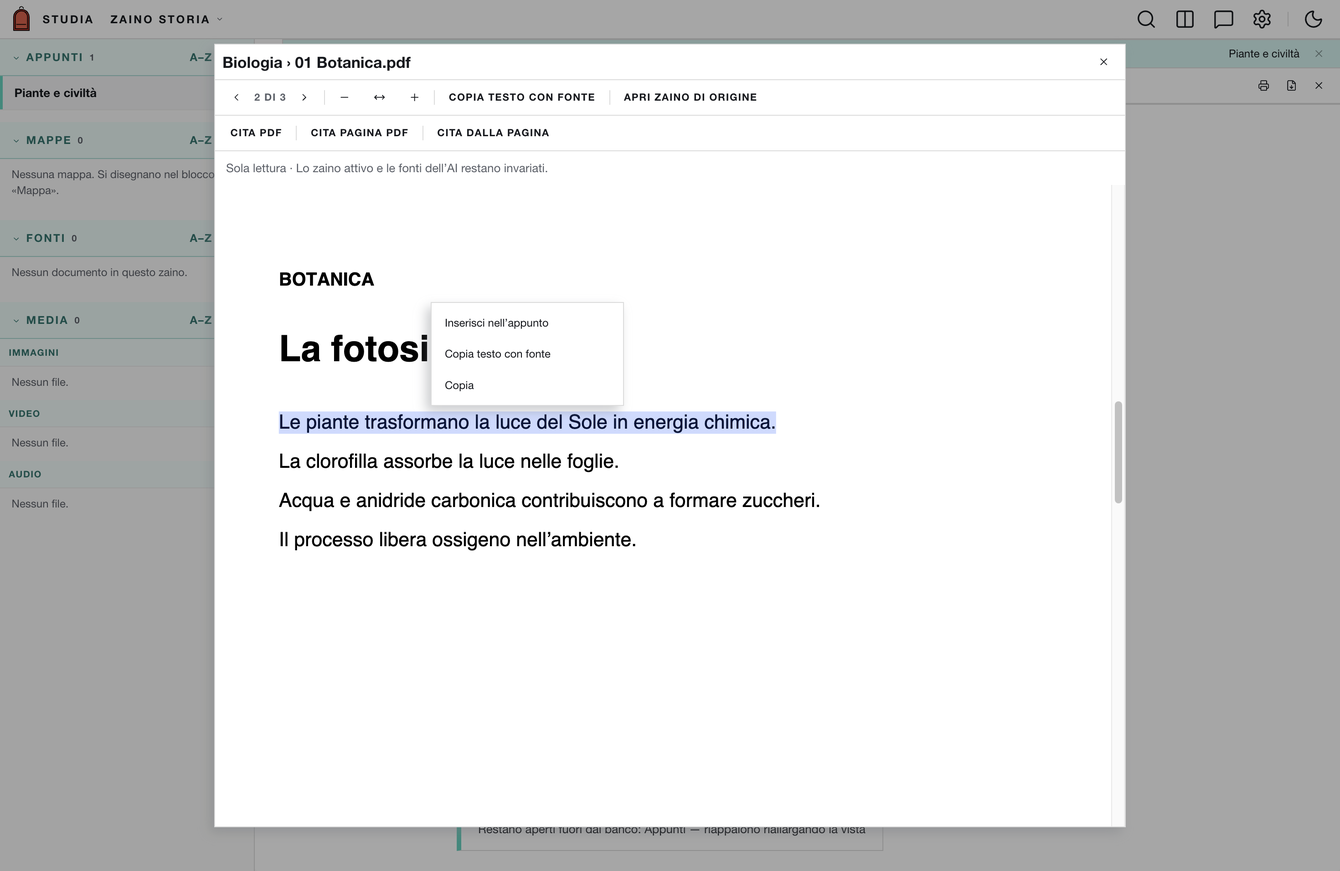
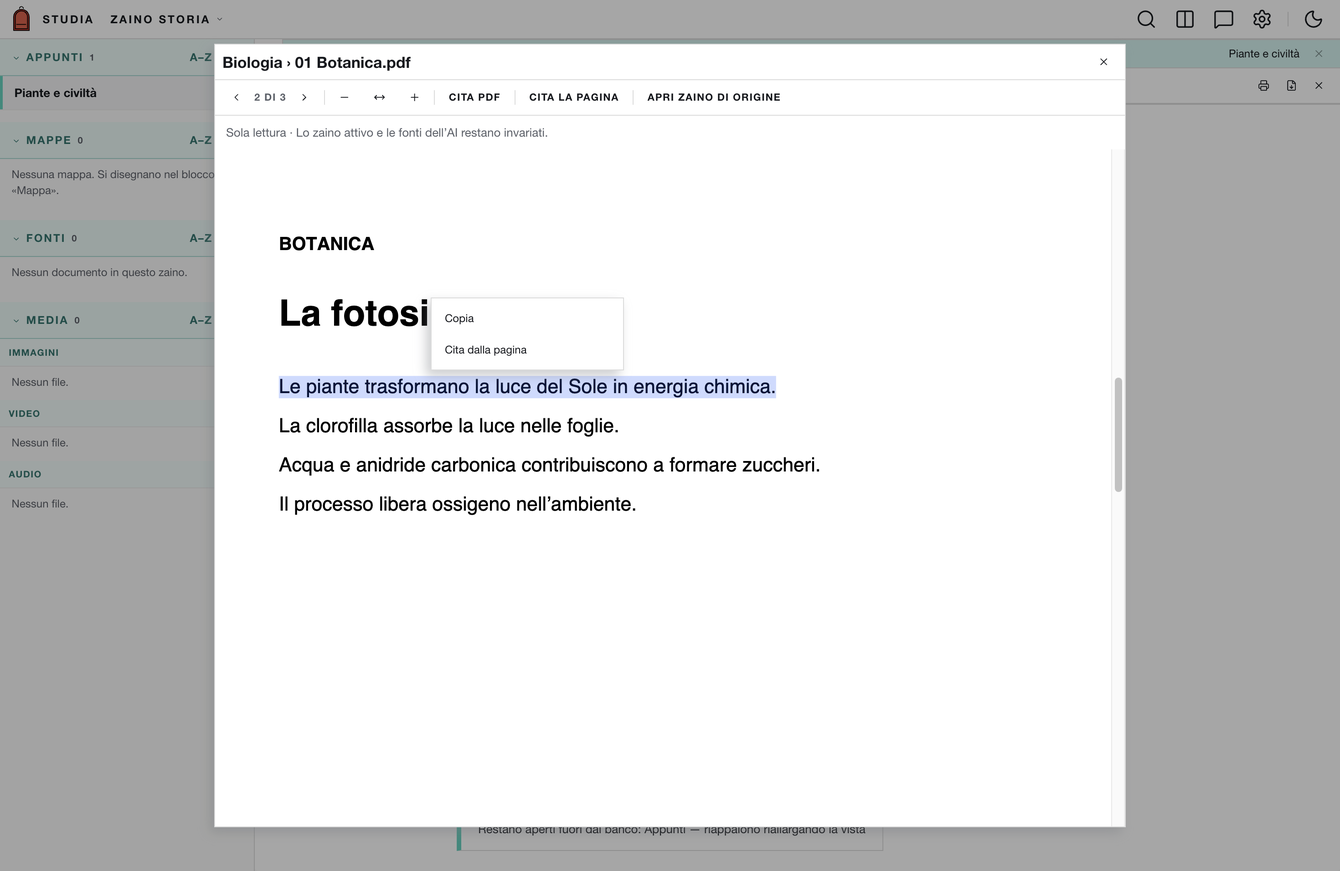
Compatta i comandi dell’anteprima e semplifica i titoli delle citazioni

diff --git a/test/cdp/prova-citazioni-zaini.js b/test/cdp/prova-citazioni-zaini.js
@@ -149,18 +149,18 @@ async function provaCitazioniClip(fileNota){
   await c.invia('Input.dispatchKeyEvent',{type:'keyUp',key:'Enter',code:'Enter',windowsVirtualKeyCode:13});
   await wait(`document.getElementById('citazioneConto').textContent==='${n} DI 3'`);
  };
- await apri();assert(await c.val(`document.getElementById('citazioneCitaEstratto').disabled`),'estratto richiede selezione');
+ await apri();assert(await c.val(`!document.getElementById('citazioneCitaEstratto')`),'estratto solo nel menu della selezione');
  await c.clicca('#citazioneCitaPdf');await wait(`!document.getElementById('citazioneDialog').open`);
  assert.equal((await ultima()).intero,true);assert(await c.val('NOTES.mde.isPreviewActive()'));
  await apri();await pagina(3);await c.clicca('#citazioneCitaPagina');await wait(`!document.getElementById('citazioneDialog').open`);
  assert.equal((await ultima()).pagina,3);assert(!(await ultima()).intero);
  await apri();await pagina(2);await wait(`!!document.querySelector('#citazionePagine .page[data-page-number="2"] .textLayer span')`);
- await c.val(`(()=>{const n=document.querySelector('#citazionePagine .page[data-page-number="2"] .textLayer span').firstChild,r=document.createRange(),i=n.textContent.indexOf('pagina');r.setStart(n,i);r.setEnd(n,i+6);getSelection().removeAllRanges();getSelection().addRange(r);})()`);
- await wait(`!document.getElementById('citazioneCitaEstratto').disabled`);await c.clicca('#citazioneCitaEstratto');await wait(`!document.getElementById('citazioneDialog').open`);
+ await c.val(`(()=>{const n=document.querySelector('#citazionePagine .page[data-page-number="2"] .textLayer span').firstChild,r=document.createRange(),i=n.textContent.indexOf('pagina');r.setStart(n,i);r.setEnd(n,i+6);getSelection().removeAllRanges();getSelection().addRange(r);const b=r.getBoundingClientRect();n.parentElement.dispatchEvent(new MouseEvent('mouseup',{bubbles:true,button:0,clientX:b.x+4,clientY:b.y+4}));})()`);
+ await wait(`selBarraAperta()`);await c.clicca('#selBarra [data-az="inserisci-citazione"]');await wait(`!document.getElementById('citazioneDialog').open`);
  const ref=await ultima();assert.equal(ref.pagina,2);assert.equal(ref.selezione.testo,'pagina');
  assert((await c.val('NOTES.mde.value()')).includes('> *pagina*'));
  await c.val(`noteAnteprimaRidisegna(NOTES)`);
- assert(await c.val(`(()=>{const a=[...document.querySelectorAll('#noteHost .editor-preview-active a[data-citazione-zaino]')].at(-1),q=a.closest('blockquote');return !!q?.querySelector('em')&&q.textContent.includes('01 Botanica.pdf; p. 2')&&getComputedStyle(q).borderLeftWidth!=='0px';})()`),'testo corsivo, titolo e link dentro un’unica barra');
+ assert(await c.val(`(()=>{const a=[...document.querySelectorAll('#noteHost .editor-preview-active a[data-citazione-zaino]')].at(-1),q=a.closest('blockquote');return !!q?.querySelector('em')&&q.textContent.includes('Botanica.pdf; p. 2')&&!q.textContent.includes('01 Botanica.pdf; p. 2')&&getComputedStyle(q).borderLeftWidth!=='0px';})()`),'testo corsivo, titolo senza numero e link dentro un’unica barra');
  await c.val(`(()=>{const a=[...document.querySelectorAll('#noteHost .editor-preview-active a[data-citazione-zaino]')].at(-1);a.dataset.provaCitazione='1';a.scrollIntoView({block:'center',behavior:'instant'});})()`);
  // Un link inline può avere più rettangoli: il centro del loro inviluppo
  // può cadere fra due righe. Si preme una porzione di testo davvero raggiungibile.
@@ -235,15 +235,19 @@ async function provaCitazioniClip(fileNota){
   await wait(`!!document.querySelector('#citazionePagine .page[data-page-number="2"] canvas')`);
   await wait(`!!document.querySelector('#citazionePagine .page[data-page-number="2"] .textLayer span')`);
   assert((await c.val(`document.getElementById('citazioneTitolo').textContent`)).includes('Biologia'));
+  assert.equal(await c.val(`document.getElementById('citazioneCopia')`),null,'niente copia con fonte nella toolbar dell’anteprima');
+  assert(await c.val(`document.getElementById('citazioneCitaPagina').parentElement===document.getElementById('citazioneConto').closest('.tbar')`),'citazioni nella stessa toolbar di pagine e zoom');
+  assert.equal(await c.val(`document.getElementById('citazioneCitaPagina').textContent`),'Cita la pagina');
+  assert.equal(await c.val(`document.getElementById('citazioneCitaEstratto')`),null,'il passaggio si cita dal menu della selezione');
+  assert.equal(await c.val(`document.querySelectorAll('#citazioneDialog > .tbar').length`),2,'testata e una sola toolbar');
   assert(await c.val(`!!document.querySelector('#citazionePagine .page[data-page-number="2"] canvas').getBoundingClientRect().height`));
   await provaGestiCitazione(cita.rimando);
   // Opt-in: copia del sistema e gesto Incolla reali, senza il doppio usato dalle altre prove.
   // Il lanciatore locale conserva e ripristina la pasteboard del Mac in memoria.
   if(process.env.STUDIA_PROVA_CLIPBOARD==='1'){
    await c.val(`navigator.clipboard.writeText=window.__copiaPrima;NOTES.mde.codemirror.setCursor(NOTES.mde.codemirror.lineCount(),0);if(!NOTES.mde.isPreviewActive())NOTES.mde.togglePreview();`);
-   await c.val(`(()=>{const r=document.createRange();r.selectNodeContents(document.querySelector('#citazionePagine .page[data-page-number="2"] .textLayer span'));getSelection().removeAllRanges();getSelection().addRange(r);})()`);
-   await c.clicca('#citazioneCopia');await c.pausa(200);
-   assert((await c.val(`document.getElementById('citazioneStato').textContent`)).startsWith('Citazione copiata.'),'la copia reale deve riuscire: '+await c.val(`document.getElementById('citazioneStato').textContent`));
+   await c.val(`(()=>{const el=document.querySelector('#citazionePagine .page[data-page-number="2"] .textLayer span'),r=document.createRange();r.selectNodeContents(el);getSelection().removeAllRanges();getSelection().addRange(r);const b=r.getBoundingClientRect();el.dispatchEvent(new MouseEvent('mouseup',{bubbles:true,button:0,clientX:b.x+4,clientY:b.y+4}));})()`);
+   await wait('selBarraAperta()');await c.clicca('#selBarra [data-az="copia"]');await c.pausa(200);
    assert(await c.val('navigator.clipboard.readText().then(()=>false,()=>true)'), 'la lettura automatica della clipboard resta negata');
    await c.clicca('#citazioneChiudi');await c.clicca('#noteHost .editor-toolbar .preview');
    const primaIncolla=await c.val('NOTES.mde.value()');
@@ -251,7 +255,8 @@ async function provaCitazioniClip(fileNota){
    await c.invia('Input.dispatchKeyEvent',{type:'keyDown',modifiers:4,key:'v',code:'KeyV',windowsVirtualKeyCode:86,commands:['paste']});
    await c.invia('Input.dispatchKeyEvent',{type:'keyUp',modifiers:4,key:'v',code:'KeyV',windowsVirtualKeyCode:86});
    await wait(`NOTES.mde.value()!==${q(primaIncolla)}`);
-   assert.equal((await c.val('NOTES.mde.value()')).split('> *Botanica - pagina 2*').length,3,'incolla dopo uscita da anteprima');
+   assert.equal((await c.val('NOTES.mde.value()')).split('Botanica - pagina 2').length,primaIncolla.split('Botanica - pagina 2').length+1,'Copia incolla il solo testo selezionato dopo uscita da anteprima');
+   assert.equal((await c.val('NOTES.mde.value()')).split('zaino-pdf:').length,primaIncolla.split('zaino-pdf:').length,'Copia non aggiunge la fonte');
    await c.val(`navigator.clipboard.writeText=async t=>{window.__citazioneCopiata=t;};citazioneZainoApri(${q(cita.rimando)})`);
    await wait(`!!document.querySelector('#citazionePagine .page[data-page-number="2"] .textLayer span')`);
   }
@@ -261,21 +266,17 @@ async function provaCitazioniClip(fileNota){
   shot=await c.invia('Page.captureScreenshot',{format:'png'});fs.writeFileSync('/tmp/zaino-citazione-menu.png',Buffer.from(shot.result.data,'base64'));
   const livello=await c.val(`(()=>{const b=document.querySelector('#selBarra .ctx-item'),r=b.getBoundingClientRect(),hit=document.elementFromPoint(r.x+r.width/2,r.y+r.height/2);return {raggiungibile:!!hit?.closest('#selBarra'),sopra:hit?.outerHTML.slice(0,180),contenitore:document.getElementById('selBarra').parentElement.id};})()`);
   assert(livello.raggiungibile,'Menu della citazione davanti al PDF e cliccabile: '+JSON.stringify(livello));
-  assert.deepEqual(await c.val(`[...document.querySelectorAll('#selBarra .ctx-item')].map(b=>b.textContent)`),['Inserisci nell’appunto','Copia testo con fonte','Copia']);
+  assert.deepEqual(await c.val(`[...document.querySelectorAll('#selBarra .ctx-item')].map(b=>b.textContent)`),['Copia','Cita dalla pagina']);
   assert.equal(await c.val(`evSupDaRange(SELMENU.range)`),null,'nessuna annotazione sulla fonte sottostante');
-  await c.val(`window.__citazioneCopiata=''`);await c.clicca('#selBarra [data-az="cita-pdf"]');
-  await wait(`window.__citazioneCopiata?.includes('Biologia › 01 Botanica.pdf · p. 2')`);
-  assert(!(await c.val('window.__citazioneCopiata')).includes('Fonte locale'));
   // Anche senza un PDF sottostante, il tasto destro apre il menu dentro il dialogo.
   await c.val(`closePdf();window.__selezionaCitazione()`);await wait(`selBarraAperta()`);
   const punto=await c.val(`(()=>{const r=getSelection().getRangeAt(0).getBoundingClientRect();return {x:r.x+4,y:r.y+4};})()`);
   for(const type of ['mousePressed','mouseReleased'])await c.invia('Input.dispatchMouseEvent',{type,...punto,button:'right',clickCount:1});
   await wait(`selMenuAperto()`);
+  assert.deepEqual(await c.val(`[...document.querySelectorAll('#selMenu .ctx-item')].map(b=>b.textContent)`),['Copia','Cita dalla pagina'],'menu automatico e tasto destro coerenti');
   assert(await c.val(`(()=>{const b=document.querySelector('#selMenu [data-az="copia"]'),r=b.getBoundingClientRect();return !!document.elementFromPoint(r.x+r.width/2,r.y+r.height/2)?.closest('#selMenu');})()`));
   await c.val(`window.__citazioneCopiata=''`);await c.clicca('#selMenu [data-az="copia"]');
   await wait(`window.__citazioneCopiata==='Botanica - pagina 2'`);
-  await c.val(`(()=>{const r=document.createRange();r.selectNodeContents(document.querySelector('#citazionePagine .page[data-page-number="2"] .textLayer span'));getSelection().removeAllRanges();getSelection().addRange(r);window.__citazioneCopiata='';})()`);
-  await c.clicca('#citazioneCopia');await wait(`window.__citazioneCopiata?.includes('> *Botanica - pagina 2*')`);
   shot=await c.invia('Page.captureScreenshot',{format:'png'});fs.writeFileSync('/tmp/zaino-citazione-anteprima.png',Buffer.from(shot.result.data,'base64'));
   // Gesto reale dal secondo appunto in anteprima: destinazione stabile, inserimento
   // senza sostituire il testo selezionato e un solo Annulla per tornare all'originale.

diff --git a/App/StudIA.html b/App/StudIA.html
@@ -76,7 +76,8 @@
      `test/roundtrip.js` caricano lo STESSO file. Non ha dipendenze: sta qui in
      fondo solo per leggibilità. -->
 <!-- ⚠ PRIMA di `lettura/capitolo.js`, che la usa per leggere i rimandi: qui
-     l'ordine dei `<script>` è l'unica dipendenza dichiarata che abbiamo. -->
+     l'ordine dei `<script>` è l'unica dipendenza dichiarata che abbiamo.
+     DOPO `fonti/nomi.js`, che toglie il numeratore dai titoli delle citazioni. -->
 <script src="assets/rimandi/sintassi.js"></script>
 <!-- ⚠ Anche questa PRIMA di `capitolo.js`: è chi decide che nome ha un capitolo,
      e la testata di quel file dice perché i nomi sono più d'uno. -->
@@ -13816,12 +13817,12 @@ function siStaRidimensionando(){
  */
 function selMenuHTML(sel){
   if(sel.soloCitazione){
-    var inserisci='';
+    var copia='<button type="button" class="ctx-item" role="menuitem" data-az="copia">Copia</button>';
     if(sel.anteprimaEsterna){
       var titolo=sel.appunto?'Inserisci testo e fonte in «'+sel.appunto+'»':'Apri un appunto nello zaino attivo per inserire il testo.';
-      inserisci='<button type="button" class="ctx-item" role="menuitem" data-az="inserisci-citazione" title="'+escHtml(titolo)+'"'+(sel.appunto?'':' disabled')+'>Inserisci nell’appunto</button>';
+      return copia+'<button type="button" class="ctx-item" role="menuitem" data-az="inserisci-citazione" title="'+escHtml(titolo)+'"'+(sel.appunto?'':' disabled')+'>Cita dalla pagina</button>';
     }
-    return inserisci+'<button type="button" class="ctx-item" role="menuitem" data-az="cita-pdf">Copia testo con fonte</button><button type="button" class="ctx-item" role="menuitem" data-az="copia">Copia</button>';
+    return '<button type="button" class="ctx-item" role="menuitem" data-az="cita-pdf">Copia testo con fonte</button>'+copia;
   }
   var conVault=!!(notesApi() && curMeta());
   /* Le voci non ancora costruite si dichiarano e si spengono, come fa il
@@ -13931,7 +13932,7 @@ document.addEventListener('contextmenu', function(e){
  */
 function selAzione(az, testo, range){
   if(az==='inserisci-citazione'){citazioneInserisciDaRange(range);return;}
-  if(az==='cita-pdf'){if(window.citazioneSelezione?.(range)){citazioneCopiaDaRange(range);return;}var origine=citazioneOriginePdf(range);if(origine)citazioneCopiaPdf(zainoAttivo(),origine.file,origine.pagina,testo,range);else toast('Seleziona un passaggio di una sola pagina per citarlo.',false);return;}
+  if(az==='cita-pdf'){var origine=citazioneOriginePdf(range);if(origine)citazioneCopiaPdf(zainoAttivo(),origine.file,origine.pagina,testo,range);else toast('Seleziona un passaggio di una sola pagina per citarlo.',false);return;}
   if(az==='interrogami'){var sup=evSupDaRange(range);window.zainoInterrogami?.({text:testo,file:sup && sup.tipo==='pdf'?ANTEPRIMA.file:''});return;}
   if(az==='copia'){
     if(!navigator.clipboard){ toast('Copia non disponibile',false); return; }
@@ -22870,8 +22871,7 @@ window.addEventListener('keydown', function(e){
 <div id="zainiMenu" class="popmenu" role="dialog" aria-label="Scegli uno zaino"></div>
 <dialog id="citazioneDialog" aria-labelledby="citazioneTitolo">
   <div class="tbar"><strong id="citazioneTitolo">Citazione PDF</strong><span class="tbspazio"></span><button type="button" id="citazioneChiudi" class="tbtn" title="Chiudi la fonte" aria-label="Chiudi la fonte"></button></div>
-  <div class="tbar"><span class="pdfpag" id="citazionePag"><button type="button" id="citazionePrima" class="tbtn" title="Pagina precedente" aria-label="Pagina precedente"></button><button type="button" class="tbtn" id="citazioneConto" aria-expanded="false" aria-controls="citazionePaginaIn" title="Vai a una pagina: premi e scrivi il numero">− DI −</button><input id="citazionePaginaIn" type="text" inputmode="numeric" autocomplete="off" aria-label="Vai a una pagina" hidden><button type="button" id="citazioneDopo" class="tbtn" title="Pagina successiva" aria-label="Pagina successiva"></button></span><span class="tbsep"></span><span class="pdfzoom" id="citazioneZoom" role="group" aria-label="Zoom del PDF"><button type="button" class="tbtn" id="citazioneZoomOut" title="Riduci" aria-label="Riduci" disabled></button><button type="button" class="tbtn" id="citazioneZoomLvl" title="Adattata alla larghezza — segue il riquadro; clicca per adattare alla pagina intera" disabled></button><button type="button" class="tbtn" id="citazioneZoomIn" title="Ingrandisci" aria-label="Ingrandisci" disabled></button></span><span class="tbsep"></span><button type="button" id="citazioneCopia" class="tbtn">Copia testo con fonte</button><span class="tbsep"></span><button type="button" id="citazioneVai" class="tbtn">Apri zaino di origine</button></div>
-  <div class="tbar"><button type="button" class="tbtn" id="citazioneCitaPdf" title="Inserisci nell’appunto il riferimento all’intero PDF">Cita PDF</button><span class="tbsep"></span><button type="button" class="tbtn" id="citazioneCitaPagina" title="Inserisci nell’appunto il riferimento alla pagina corrente">Cita pagina PDF</button><span class="tbsep"></span><button type="button" class="tbtn" id="citazioneCitaEstratto" title="Seleziona un passaggio di questa pagina e inseriscilo nell’appunto con il riferimento">Cita dalla pagina</button></div>
+  <div class="tbar"><span class="pdfpag" id="citazionePag"><button type="button" id="citazionePrima" class="tbtn" title="Pagina precedente" aria-label="Pagina precedente"></button><button type="button" class="tbtn" id="citazioneConto" aria-expanded="false" aria-controls="citazionePaginaIn" title="Vai a una pagina: premi e scrivi il numero">− DI −</button><input id="citazionePaginaIn" type="text" inputmode="numeric" autocomplete="off" aria-label="Vai a una pagina" hidden><button type="button" id="citazioneDopo" class="tbtn" title="Pagina successiva" aria-label="Pagina successiva"></button></span><span class="tbsep"></span><span class="pdfzoom" id="citazioneZoom" role="group" aria-label="Zoom del PDF"><button type="button" class="tbtn" id="citazioneZoomOut" title="Riduci" aria-label="Riduci" disabled></button><button type="button" class="tbtn" id="citazioneZoomLvl" title="Adattata alla larghezza — segue il riquadro; clicca per adattare alla pagina intera" disabled></button><button type="button" class="tbtn" id="citazioneZoomIn" title="Ingrandisci" aria-label="Ingrandisci" disabled></button></span><span class="tbsep"></span><button type="button" class="tbtn" id="citazioneCitaPdf" title="Inserisci nell’appunto il riferimento all’intero PDF">Cita PDF</button><span class="tbsep"></span><button type="button" class="tbtn" id="citazioneCitaPagina" title="Inserisci nell’appunto il riferimento alla pagina corrente">Cita la pagina</button><span class="tbsep"></span><button type="button" id="citazioneVai" class="tbtn">Apri zaino di origine</button></div>
   <p id="citazioneStato" role="status"></p>
   <div id="citazionePdf"><div id="citazioneFrame" tabindex="0" autofocus aria-label="PDF citato da un altro zaino" title="Pinch: zoom · Spazio + trascina: sposta · Tre clic: adatta alla larghezza"><div id="citazionePagine" class="pdfViewer"></div></div></div>
 </dialog>

diff --git a/App/assets/rimandi/citazioni-ui.js b/App/assets/rimandi/citazioni-ui.js
@@ -42,7 +42,6 @@
   s.selezioneApplicata=true;
   if(!citazioneSelezionaLayer(layer,s.info.selezione))messaggio('Pagina aperta. Non riesco a individuare esattamente il passaggio citato.');
  }
- function selezioneCorrente(){var sel=getSelection();return sel?.rangeCount&&!sel.isCollapsed&&citazioneSelezione(sel.getRangeAt(0))?sel.getRangeAt(0):null;}
  function markdownCitazione(modo,range){
   if(!stato?.doc)return '';
   var s=stato,ref=RimandiSintassi.leggi(s.info.rimando),pagina=modo==='pdf'?null:s.viewer.currentPageNumber,testo='',ancora;
@@ -125,13 +124,11 @@
   document.getElementById('citazioneConto').textContent=pronto?p+' DI '+s.doc.numPages:'− DI −';
   document.getElementById('citazionePrima').disabled=!pronto||p<=1;
   document.getElementById('citazioneDopo').disabled=!pronto||p>=s.doc.numPages;
-  document.getElementById('citazioneCopia').disabled=!pronto;
   document.getElementById('citazioneVai').disabled=!pronto;
   var conto=document.getElementById('citazioneConto');conto.disabled=!pronto;conto.title=FontiPagina.suggerimento(p,{etichette:s?.etichette});
   var b=s?.destinazione,puoi=pronto&&b?.file&&noteBersaglioValido(b);
   document.getElementById('citazioneCitaPdf').disabled=!puoi;
   document.getElementById('citazioneCitaPagina').disabled=!puoi;
-  document.getElementById('citazioneCitaEstratto').disabled=!puoi||!selezioneCorrente();
   document.querySelectorAll('#citazioneZoom button').forEach(function(b){b.disabled=!pronto;});
   var lvl=document.getElementById('citazioneZoomLvl');
   var e=FontiZoom.comandoPdf(s?.viewer.currentScaleValue,s?.viewer.currentScale,pronto);
@@ -217,27 +214,15 @@
   if(e.key==='Enter'){e.preventDefault();e.stopPropagation();campoVai();}
  });
  document.getElementById('citazionePaginaIn').addEventListener('blur',campoChiudi);
- document.addEventListener('selectionchange',function(){if(stato?.doc&&dialog.open)controlli();});
  window.addEventListener('keydown',function(e){if(e.key!=='Escape'||!dialog.open)return;e.preventDefault();e.stopPropagation();
   if(!document.getElementById('citazionePaginaIn').hidden){campoChiudi();frame.focus({preventScroll:true});}else chiudi();
  },true);
  document.getElementById('citazioneCitaPdf').onclick=function(){var md=markdownCitazione('pdf');if(md)inserisciMarkdown(md);};
  document.getElementById('citazioneCitaPagina').onclick=function(){var md=markdownCitazione('pagina');if(md)inserisciMarkdown(md);};
- document.getElementById('citazioneCitaEstratto').addEventListener('mousedown',function(e){e.preventDefault();});
- document.getElementById('citazioneCitaEstratto').onclick=function(){var md=markdownCitazione('estratto',selezioneCorrente());if(md)inserisciMarkdown(md);};
  document.getElementById('citazionePrima').onclick=function(){if(stato?.doc)stato.viewer.currentPageNumber--;};
  document.getElementById('citazioneDopo').onclick=function(){if(stato?.doc)stato.viewer.currentPageNumber++;};
- document.getElementById('citazioneCopia').addEventListener('mousedown',function(e){e.preventDefault();});
- function markdownDaRange(range){return markdownCitazione(citazioneSelezione(range)?'estratto':'pagina',range);}
- window.citazioneCopiaDaRange=async function(range){
-  var md=markdownDaRange(range);if(!md)return;
-  try{await navigator.clipboard.writeText(md);messaggio('Citazione copiata. Chiudi l’anteprima e incollala nel tuo appunto.');}catch(e){messaggio('Copia non riuscita: '+e.message);}
- };
  window.citazioneInserisciDaRange=function(range){
   if(!citazioneSelezione(range))return;var md=markdownCitazione('estratto',range);if(md)inserisciMarkdown(md);
- };
- document.getElementById('citazioneCopia').onclick=function(){
-  var sel=window.getSelection();citazioneCopiaDaRange(sel?.rangeCount&&!sel.isCollapsed?sel.getRangeAt(0):null);
  };
  document.getElementById('citazioneVai').onclick=apriOrigine;
  window.addEventListener('studia:zaino-changed',function(){if(dialog.open)chiudi();});

diff --git a/test/citazioni-zaini.js b/test/citazioni-zaini.js
@@ -24,9 +24,9 @@ const v=fs.mkdtempSync(path.join(os.tmpdir(),'zaino-citazioni-'));
  assert.deepEqual(R.trovaSelezione('prima DAG dopo DAG',{inizio:15,testo:'DAG'}),{inizio:15,fine:18},'riconosce la seconda occorrenza');
  assert.equal(R.trovaSelezione('DAG e DAG',{inizio:30,testo:'DAG'}),null,'mai scegliere una frase ambigua');
  assert.deepEqual(R.trovaSelezione('prima DAG dopo',{inizio:0,testo:'DAG'}),{inizio:6,fine:9},'ripiego univoco');
- for(const [rimando,testo,titolo] of [[intero,'','01 Fonte.pdf'],[cita.rimando,'','01 Fonte.pdf; p. 3'],[puntuale,'DAG su due\nrighe','01 Fonte.pdf; p. 3']]){
+ for(const [rimando,testo,titolo] of [[intero,'','Fonte.pdf'],[cita.rimando,'','Fonte.pdf; p. 3'],[puntuale,'DAG su due\nrighe','Fonte.pdf; p. 3']]){
   const md=R.citazionePdfZaino({...cita,rimando},testo);
-  assert(md.split('\n').every(l=>l.startsWith('> ')),'un blocco unico include anche il link');assert(md.includes(titolo));
+  assert(md.split('\n').every(l=>l.startsWith('> ')),'un blocco unico include anche il link');assert.equal(md.split('\n').at(-2).trimEnd(),'> '+titolo,'titolo senza numero d’importazione');
   const html=require('../lib/reader-parser').load().mdToHtml(md,true);
   assert(/<blockquote>[\s\S]*data-citazione-zaino=[\s\S]*<\/blockquote>/.test(html),'link dentro la stessa barra');
   if(testo)assert(html.includes('<em>DAG su due</em>'),'estratto in corsivo');
@@ -37,6 +37,11 @@ const v=fs.mkdtempSync(path.join(os.tmpdir(),'zaino-citazioni-'));
  assert.equal(normalizzata.split('\n').length,vecchia.split('\n').length,'coordinate degli appunti conservate');
  assert(normalizzata.split('\n').every(l=>l.startsWith('>')),'barra continua anche sulle citazioni precedenti');
  const codice='```\n'+vecchia+'\n```';assert.equal(R.normalizzaCitazioni(codice),codice,'codice letterale invariato');
+ const precedente='> *Estratto*  \n> 01 Fonte.pdf; p. 3  \n> '+R.link('Origine › 01 Fonte.pdf · p. 3',cita.rimando);
+ const resa=R.normalizzaCitazioni(precedente);assert.equal(resa.split('\n')[1],'> Fonte.pdf; p. 3  ','anche il titolo delle citazioni esistenti perde solo il numero interno');assert.equal(resa.split('\n')[2],precedente.split('\n')[2],'link originale invariato');
+ assert.equal(resa.split('\n').length,precedente.split('\n').length,'righe conservate');assert.equal(R.normalizzaCitazioni(resa),resa,'resa idempotente');
+ assert.equal(R.normalizzaCitazioni('```\n'+precedente+'\n```'),'```\n'+precedente+'\n```','nessuna normalizzazione nel codice');
+ for(const [file,titolo] of [['0001 - 2026 orario.pdf','2026 orario.pdf'],['1984.pdf','1984.pdf'],['12 orario 1C.pdf','orario 1C.pdf']])assert.equal(R.citazionePdfZaino({...cita,file},'').split('\n')[0].trimEnd(),'> '+titolo+'; p. 3');
 
  assert.equal(R.leggi(cita.rimando.replace('#p=3','#p=0')),null);
  assert.equal(R.leggi(cita.rimando.replace(rif.zainoId,'../fuori')),null);

diff --git a/App/guida-zaino/index.html b/App/guida-zaino/index.html
@@ -1359,10 +1359,10 @@
         <ol class="passi">
           <li>Nella toolbar Appunti premi il pulsante clip <strong>Cita un materiale</strong>. Scegli lo <strong>Zaino della fonte</strong> e il PDF: si apre l’anteprima senza inserire nulla.</li>
           <li>Premi il contatore delle pagine, scrivi il numero e premi <strong>Invio</strong>. <strong>Esc</strong> annulla il campo; con il campo chiuso, chiude la finestra.</li>
-          <li><strong>Cita PDF</strong> inserisce il titolo e il link all’intero documento.</li>
-          <li><strong>Cita pagina PDF</strong> inserisce il titolo, il numero della pagina corrente e il link.</li>
-          <li>Per <strong>Cita dalla pagina</strong>, seleziona prima le parole sul PDF. Nell’appunto compariranno in corsivo, seguite dal titolo con la pagina e dal link. La barra grigia comprende tutto il blocco. L’appunto mantiene la modalità anteprima; <strong>⌘Z</strong> annulla l’inserimento.</li>
-          <li>Apri il link nell’anteprima dell’appunto: il PDF appare in sola lettura. Se hai citato un passaggio, le sue parole vengono selezionate; non viene creata un’evidenziatura. Puoi anche usare <strong>Copia testo con fonte</strong>.</li>
+          <li>Nella barra superiore, <strong>Cita PDF</strong> inserisce il titolo e il link all’intero documento.</li>
+          <li><strong>Cita la pagina</strong> inserisce il titolo, il numero della pagina corrente e il link. La riga del titolo non mostra il numero assegnato all’importazione.</li>
+          <li>Seleziona le parole sul PDF e scegli <strong>Cita dalla pagina</strong> nel menu della selezione. <strong>Copia</strong> copia solo il testo. Nell’appunto il passaggio comparirà in corsivo, seguito dal titolo con la pagina e dal link. La barra grigia comprende tutto il blocco. L’appunto mantiene la modalità anteprima; <strong>⌘Z</strong> annulla l’inserimento.</li>
+          <li>Apri il link nell’anteprima dell’appunto: il PDF appare in sola lettura. Se hai citato un passaggio, le sue parole vengono selezionate; non viene creata un’evidenziatura.</li>
           <li>Nella toolbar trovi <strong>Riduci</strong>, <strong>Adatta</strong> e <strong>Ingrandisci</strong>, come in Fonti. Funzionano pinch, <kbd>Spazio</kbd> + trascinamento e <strong>tre clic</strong> per adattare alla larghezza.</li>
           <li><strong>Apri zaino di origine</strong> cambia lo zaino attivo, apre il PDF alla pagina citata e seleziona anche in Fonti le parole del passaggio. Nella topbar, <strong>Torna a [zaino di partenza]</strong> riapre l’appunto da cui provenivi, con la sua modalità di visualizzazione.</li>
         </ol>

diff --git a/App/assets/rimandi/sintassi.js b/App/assets/rimandi/sintassi.js
@@ -36,9 +36,9 @@
    dati alla stringa, e viceversa.
    ============================================================================ */
 (function (root, factory) {
-  if (typeof module === 'object' && module.exports) module.exports = factory();
-  else root.RimandiSintassi = factory();
-}(typeof self !== 'undefined' ? self : this, function () {
+  if (typeof module === 'object' && module.exports) module.exports = factory(require('../fonti/nomi'));
+  else root.RimandiSintassi = factory(root.FontiNomi);
+}(typeof self !== 'undefined' ? self : this, function (FontiNomi) {
   'use strict';
 
   /* Le tre forme, in un posto solo. ⚠ `&amp;` fra i parametri della figura non
@@ -104,7 +104,7 @@
     const label=String(info.zainoTitolo+' › '+titolo+(r.intero?'':' · p. '+r.pagina)).replace(/[\[\]\r\n]/g,'');
     const estratto=String(testo||'').trim(),righe=[];
     if(estratto)estratto.split(/\r?\n/).forEach(l=>righe.push(l?'*'+letterale(l)+'*':''));
-    righe.push(letterale(titolo+pagina),link(letterale(label),info.rimando));
+    righe.push(letterale(FontiNomi.visibile(titolo)+pagina),link(letterale(label),info.rimando));
     return righe.map(l=>'> '+l).join('  \n');
   }
   /** Offset verificato sul testo; se il layout cambia si accetta solo un riscontro univoco. */
@@ -122,8 +122,13 @@
       const f=/^\s*(`{3,}|~{3,})/.exec(righe[i]);
       if(f){if(!recinto)recinto=f[1][0];else if(recinto===f[1][0])recinto='';continue;}
       if(recinto)continue;
-      const m=/^\[([^\]]+)\]\((zaino-pdf:[^)]+)\)\s*$/.exec(righe[i]);
-      if(!m||leggi(m[2])?.tipo!=='pdf-zaino')continue;
+      const m=/^(>\s*)?\[([^\]]+)\]\((zaino-pdf:[^)]+)\)\s*$/.exec(righe[i]);
+      const ref=m&&leggi(m[3]);if(ref?.tipo!=='pdf-zaino')continue;
+      // Solo la riga di titolo riconoscibile della citazione: il link conserva
+      // il nome interno, e il testo scritto dall'utente non viene riscritto.
+      const t=/^(>\s*)(.+?\.pdf)(; p\. \d+)?([ \t]*)$/i.exec(righe[i-1]||'');
+      if(t&&(t[3]||'')===(ref.intero?'':'; p. '+ref.pagina)&&m[2].endsWith(' › '+t[2]+(ref.intero?'':' · p. '+ref.pagina)))righe[i-1]=t[1]+FontiNomi.visibile(t[2])+(t[3]||'')+t[4];
+      if(m[1])continue;
       let j=i-1;while(j>=0&&!righe[j].trim())j--;
       if(j>=0&&/^>/.test(righe[j])){
         let a=j;while(a>0&&/^>/.test(righe[a-1]))a--;

diff --git a/App/guida-zaino/_lab/citazioni-zaini.js b/App/guida-zaino/_lab/citazioni-zaini.js
@@ -34,6 +34,7 @@ const {PDFDocument,StandardFonts}=require('pdf-lib');
  await L.pausa(600);
  await L.val(`(()=>{const el=[...document.querySelectorAll('#citazionePagine .page[data-page-number="2"] .textLayer span')].find(e=>e.textContent.startsWith('Le piante trasformano')),r=document.createRange();r.selectNodeContents(el);getSelection().removeAllRanges();getSelection().addRange(r);const b=r.getBoundingClientRect();el.dispatchEvent(new MouseEvent('mouseup',{bubbles:true,button:0,clientX:b.x+4,clientY:b.y+4}));})()`);
  assert(await L.finoA(`!!document.querySelector('#selBarra.aperta [data-az="inserisci-citazione"]:not([disabled])')`));
+ assert.deepEqual(await L.val(`[...document.querySelectorAll('#selBarra .ctx-item')].map(b=>b.textContent)`),['Copia','Cita dalla pagina']);
  await L.muovi(1450,940);await L.scatta('211-citazione-zaino',{scala:1});
  await L.clicca('#citazioneChiudi');assert.equal(await L.val('zainoAttivo()'),'storia');
  console.log('Menu zaini, selettore della fonte e anteprima della citazione acquisiti.');process.exit(0);

diff --git a/README.md b/README.md
@@ -53,9 +53,9 @@ Le domande di ciascuna scheda si possono comprimere dal titolo con il chevron e 
 
 Nella toolbar Appunti premi il pulsante clip **Cita un materiale**, scegli lo **Zaino della fonte** e il PDF. Si apre l’anteprima senza inserire ancora nulla. Il contatore delle pagine è un bottone: premilo, scrivi il numero e premi **Invio**. **Esc** annulla il campo; con il campo chiuso, **Esc** chiude la finestra.
 
-Puoi scegliere **Cita PDF** per l’intero documento, **Cita pagina PDF** per la pagina corrente o **Cita dalla pagina** dopo aver selezionato un passaggio. Il testo selezionato entra in corsivo, seguito dal titolo con la pagina e dal link **Zaino › PDF · pagina**. Per il documento intero non compare un numero di pagina. Tutto il blocco, link compreso, ha la barra grigia. Anche le citazioni precedenti ricevono la barra unita nell’anteprima, senza riscrivere i file personali.
+Nella barra superiore scegli **Cita PDF** per l’intero documento o **Cita la pagina** per la pagina corrente. Per citare un passaggio, seleziona le parole e scegli **Cita dalla pagina** nel menu della selezione; **Copia** copia solo il testo. Il passaggio entra in corsivo, seguito dal titolo con la pagina e dal link **Zaino › PDF · pagina**. La riga del titolo non mostra il numero assegnato all’importazione. Per il documento intero non compare un numero di pagina. Tutto il blocco, link compreso, ha la barra grigia. Anche le citazioni precedenti ricevono la barra unita e il titolo senza numeratore nell’anteprima, senza riscrivere i file personali.
 
-Il link di un estratto riapre il PDF alla pagina citata e seleziona le parole originali, senza creare un’evidenziatura. Le citazioni conservano l’identità e la revisione del PDF; una selezione non individuabile viene segnalata. L’appunto di destinazione conserva la modalità anteprima e mostra il blocco appena inserito. **⌘Z** annulla l’inserimento. **Copia testo con fonte** resta disponibile per il copia e incolla, anche nel menu del secondo lettore.
+Il link di un estratto riapre il PDF alla pagina citata e seleziona le parole originali, senza creare un’evidenziatura. Le citazioni conservano l’identità e la revisione del PDF; una selezione non individuabile viene segnalata. L’appunto di destinazione conserva la modalità anteprima e mostra il blocco appena inserito. **⌘Z** annulla l’inserimento. **Copia testo con fonte** resta disponibile nel menu degli split Fonti, anche nel secondo lettore.
 
 Nell’anteprima trovi **Riduci**, **Adatta** e **Ingrandisci**, con gli stessi tooltip di Fonti. Funzionano anche pinch, **Spazio + trascinamento** e **tre clic per adattare alla larghezza**. **Apri zaino di origine** cambia esplicitamente lo zaino attivo, apre il PDF alla pagina citata e seleziona anche in Fonti le parole del passaggio. Nella topbar compare **Torna a [zaino di partenza]**, che riapre l’appunto e la sua modalità di visualizzazione. Il collegamento di ritorno vale per la visita corrente.
 
